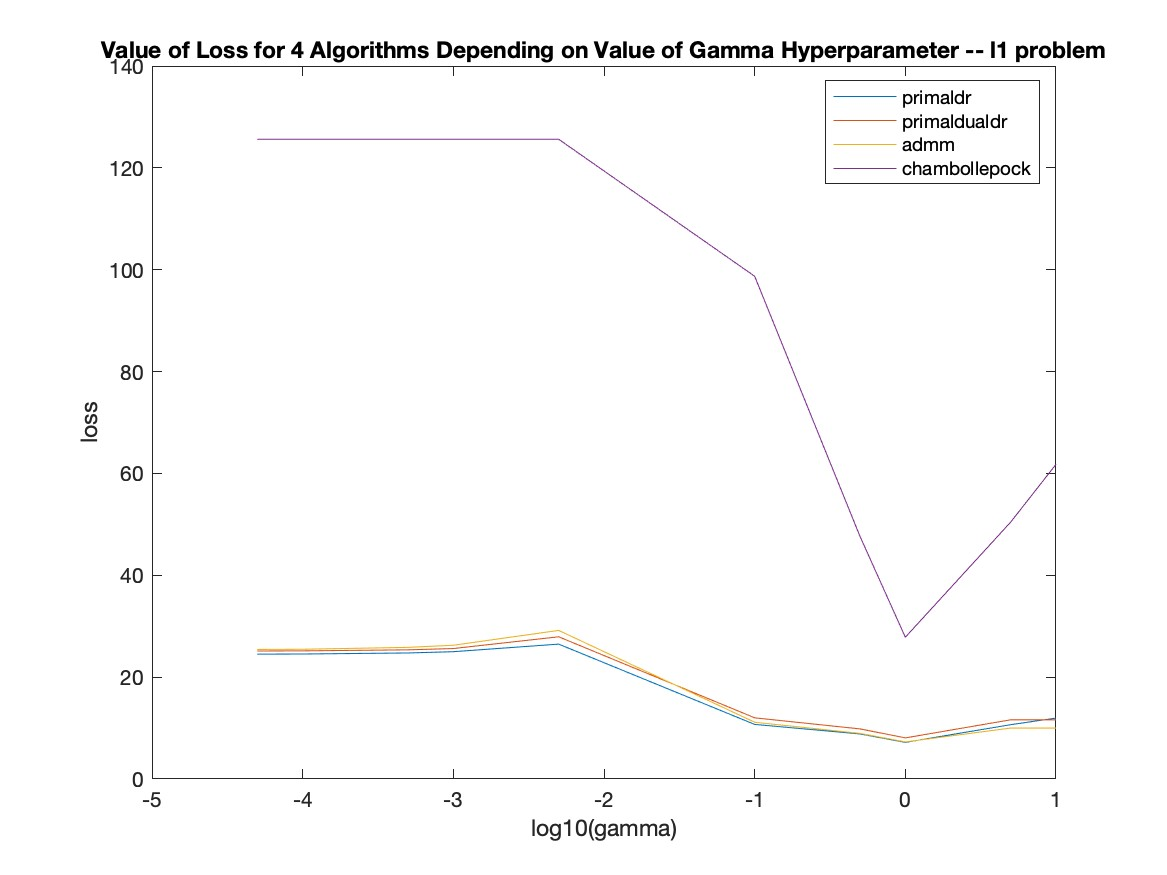
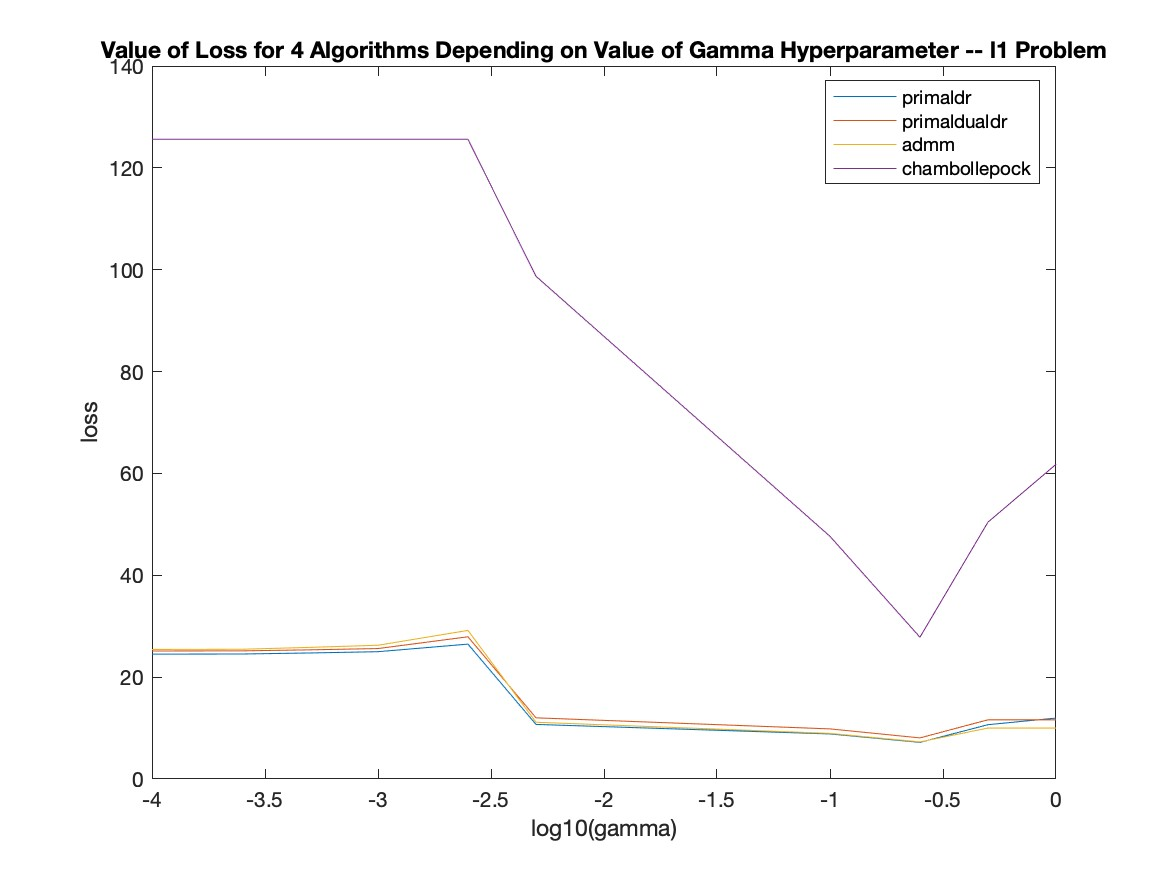
testing for gamma and s completed on first immage

diff --git a/testinggamma.m b/testinggamma.m
@@ -1,0 +1,11 @@
+function [deblurred_x, gamma_loss] = testinggamma(problem, algorithm, x_initial, x_original, kernel, b, i, gamma_values)
+    n = length(gamma_values);
+    gamma_loss = zeros(1, n);
+
+    for k=1:n
+        i.gammal1 = gamma_values(k);
+        [deblurred_x, summary] = optsolver(problem, algorithm, x_initial, x_original, kernel, b, i);
+
+        gamma_loss(k) = summary.loss;
+    end
+end

diff --git a/admm.m b/admm.m
@@ -35,7 +35,7 @@ function [deblurred_x, k, loss] = admm(b, x_original, t, rho, gamma, maxiter, to
         temp_2 = applyKTrans(z1_k) + applyD1Trans(z2_k) + applyD2Trans(z3_k);
     
         % update x_k
-        % apply (A^TA)^(-1) to u_k+temp_1-1/t(w_k+temp_2)
+        % apply (I + A^TA)^(-1) to u_k+temp_1-1/t(w_k+temp_2)
         x_k = invertMatrix(u_k+temp_1-(1/t)*(w_k+temp_2));
 
         %update u_k

diff --git a/testingscp.m b/testingscp.m
@@ -1,0 +1,12 @@
+function [deblurred_x, s_loss] = testingscp(problem, x_initial, x_original, kernel, b, i, s_values)
+    n = length(s_values);
+    s_loss = zeros(1, n);
+
+    for k=1:n
+        i.scp = s_values(k);
+
+        % test for l1 problem
+        [deblurred_x, summary] = optsolver(problem, 'chambollepock', x_initial, x_original, kernel, b, i);
+        s_loss(k) = summary.loss;
+    end
+end
